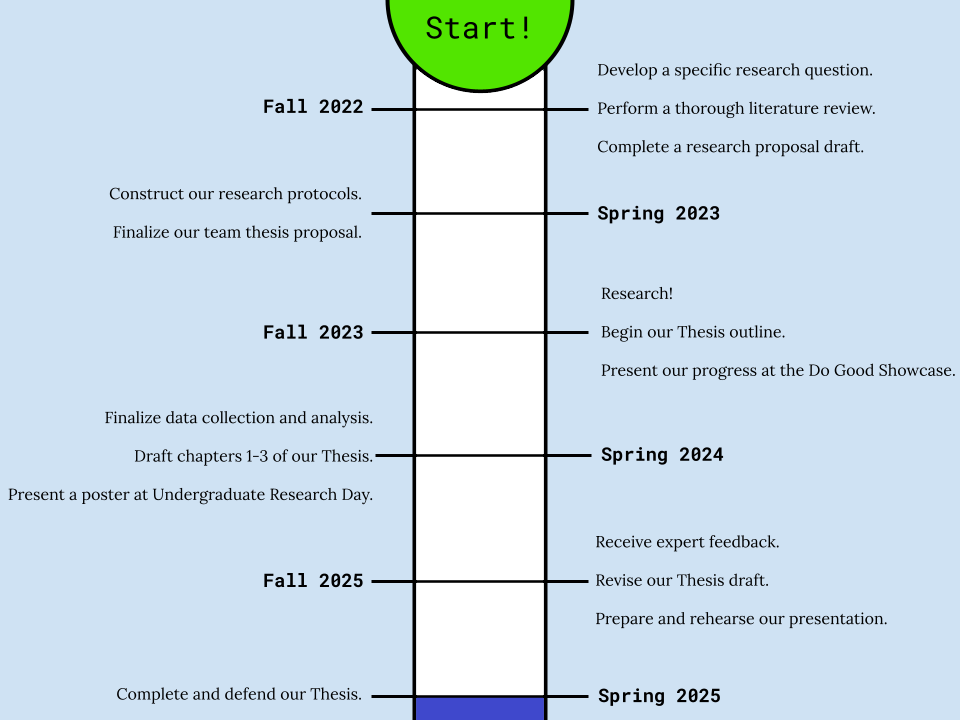
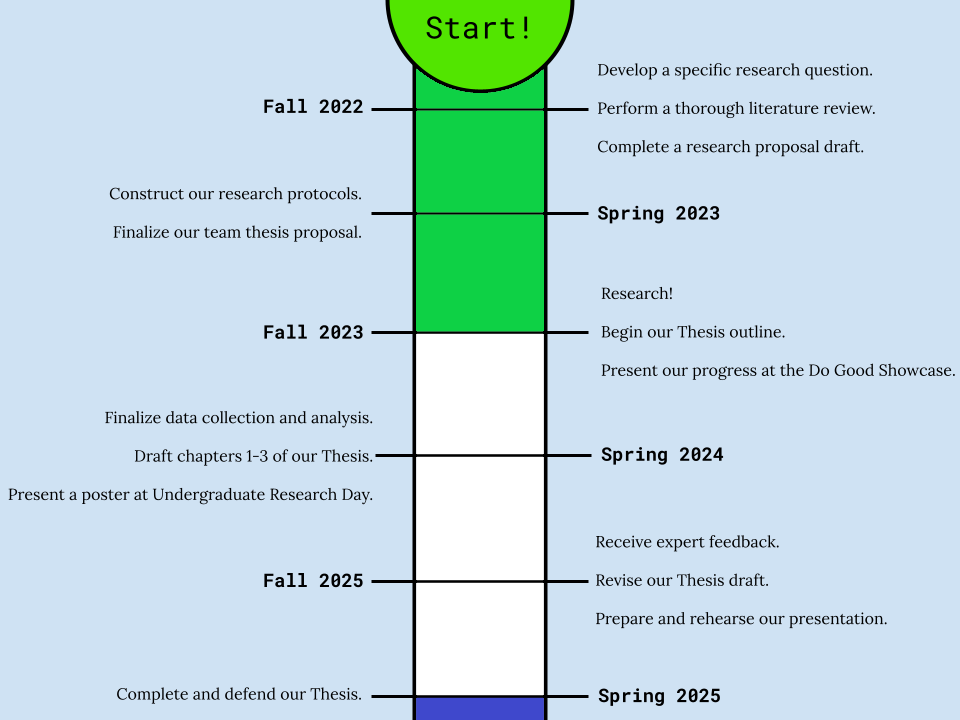
updated fall 2023

Changed region(s): [[0.4062, 0.0917, 0.5938, 0.4583]]

diff --git a/html/research.html b/html/research.html
@@ -29,7 +29,29 @@
       <div id="main">
         <h2>Project Summary</h2>
         <p class="needs-margin">
-          Our research plan as of Fall 2022 is to perform a proof of concept laboratory experiment in order to contribute to the development of novel antimicrobials to be used to treat antibiotic resistant infections. Our experiment shall consist of us attempting to deliver a CRISPR-Cas9 system with custom gRNA unto nalidixic acid resistant <i>E. coli</i> via bacteriophage M13, with this CRISPR system intended to resensitize the bacteria to nalidixic acid. We are currently working on our procedure.
+          As of Fall 2023, we are working to remove nalidixic acid resistance
+          from <i>Escherichia coli</i> using CRISPR-Cas9 delivered via
+          bacteriophage M13.
+        </p>
+        <p class="needs-margin">
+          We performed mutagenesis on <i>E. coli</i> strand
+          JM101 by selecting for nalidixic acid resistant colonies, and we are
+          in the process of sequencing the genome of mutant colonies for our
+          mutation of interest, this being <i>gyrA</i> codon 83 serine → leucine.
+        </p>
+        <p class="needs-margin">
+          We are also independently validating that the <i>gyrA</i> allele in
+          our JM101 <i>E. coli</i> is wild-type using polymerase chain reaction
+          to amplify the gene, and then sequencing it. This is being done to
+          assure that the only <i>gyrA</i> mutation we are working with is the
+          mutation of interest mentioed above.
+        </p>
+        <p class="needs-margin">
+          Lastly, we have developed a protocol for inserting Cas9, green
+          flourescent protein, a kanamycin resistance gene, and our custom sgRNA
+          into bacteriophage M13. We intend to construct the modified phage
+          and infect our resistant bacteria with it once the plasmid from which
+          we shall isolate Cas9 ships from AddGene.
         </p>
 
         <h2>Our Work</h2>
@@ -54,7 +76,7 @@
         
         <h2>Additional Resources</h2>
         
-        <h3 class="no-bottom">Here are some pertinent links to our topic:</h3>
+        <h3 class="no-bottom">For those who would like to know more about our research topic and/or methods, here are some links to pertinent topics:</h3>
         <ul>
           <li>
             <a href=
@@ -107,12 +129,11 @@
         </a>
 
         <p>
-          Reach out at our team email:
+          Reach out to us using our team email! </br>
+          <a href="mailto:teamsuperbug@gmail.com">
+            teamsuperbug@gmail.com
+          </a>
         </p>
-        
-        <a href="mailto:teamsuperbug@gmail.com">
-          teamsuperbug@gmail.com
-        </a>
       </footer>
     </div>
   </body>

diff --git a/html/team.html b/html/team.html
@@ -146,11 +146,11 @@
         </a>
 
         <p>
-          Reach out at our team email:
+          Reach out to us using our team email! </br>
+          <a href="mailto:teamsuperbug@gmail.com">
+            teamsuperbug@gmail.com
+          </a>
         </p>
-        <a href="mailto:teamsuperbug@gmail.com">
-          teamsuperbug@gmail.com
-        </a>
       </footer>
     </div>
   </body>

diff --git a/html/timeline.html b/html/timeline.html
@@ -43,11 +43,11 @@
         </a>
 
         <p>
-          Reach out at our team email:
+          Reach out to us using our team email! </br>
+          <a href="mailto:teamsuperbug@gmail.com">
+            teamsuperbug@gmail.com
+          </a>
         </p>
-        <a href="mailto:teamsuperbug@gmail.com">
-          teamsuperbug@gmail.com
-        </a>
       </footer>
     </div>
   </body>

diff --git a/index.html b/index.html
@@ -84,10 +84,10 @@
         </a>
 
         <p>
-          Reach out to our team email!
-        <a href="mailto:teamsuperbug@gmail.com">
-          teamsuperbug@gmail.com
-        </a>
+          Reach out to us using our team email! </br>
+          <a href="mailto:teamsuperbug@gmail.com">
+            teamsuperbug@gmail.com
+          </a>
         </p>
       </footer>
     </div>
